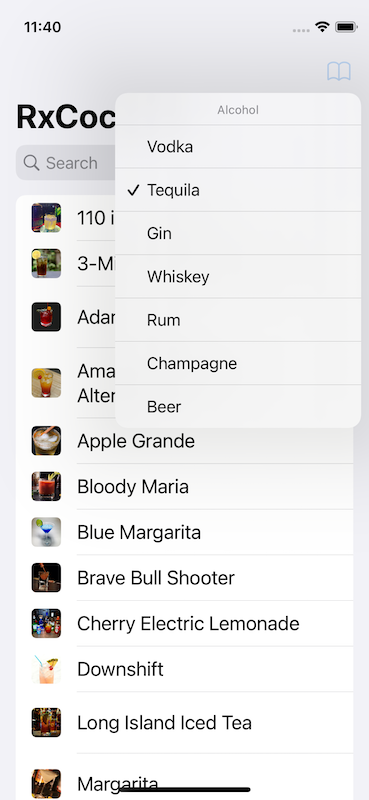
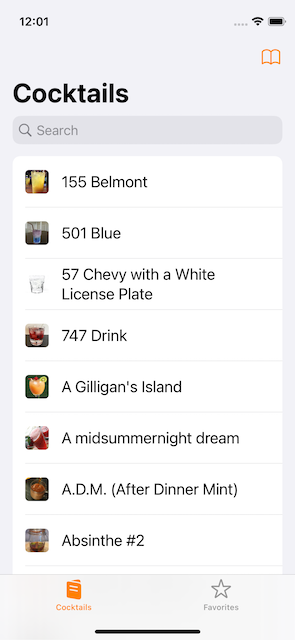
update screenshots with favorites tab

diff --git a/README.md b/README.md
@@ -6,7 +6,9 @@ Features a search bar to quickly find a cocktail and a detail page with all the 
 <p>
 <img src= "Screenshots/screenshot1.png" width = "200">
 <img src= "Screenshots/screenshot2.png" width = "200">
+
 <img src= "Screenshots/screenshot3.png" width = "200">
+<img src= "Screenshots/screenshot4.png" width = "200">
 </p>
 
 ### Built with:
